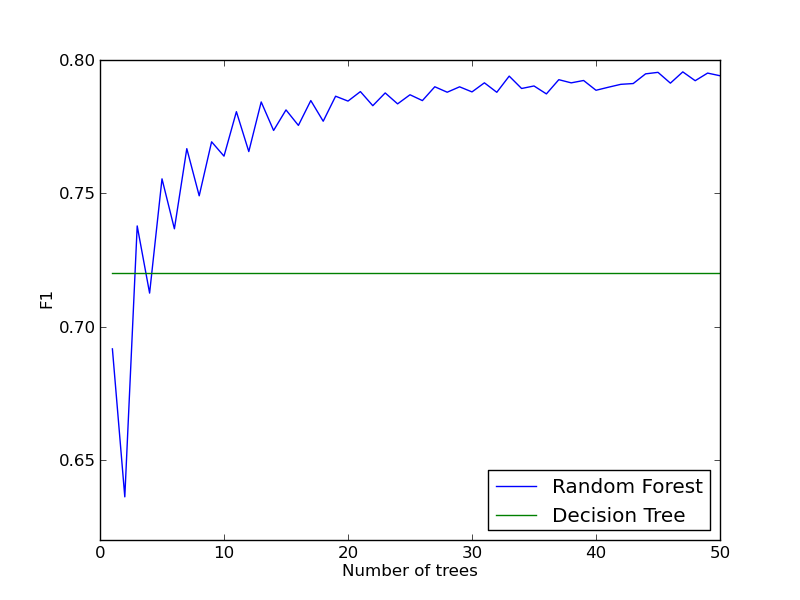
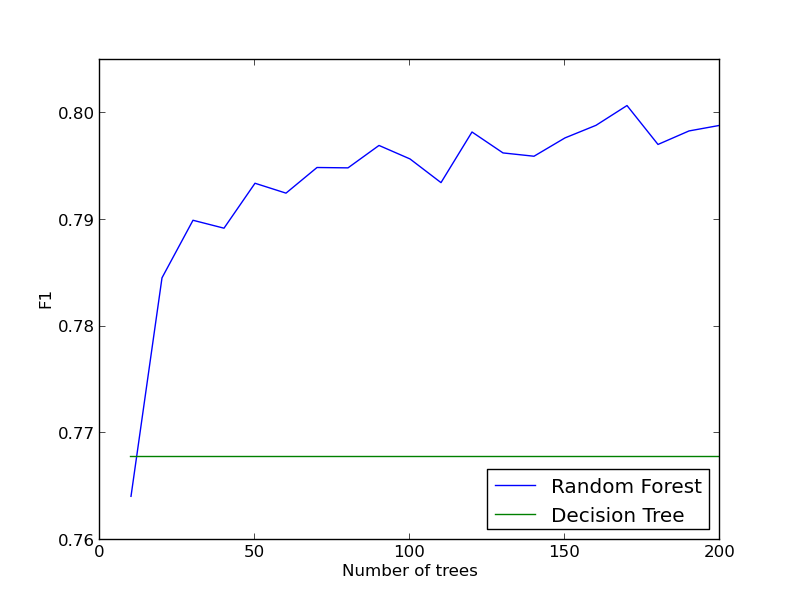
50

diff --git a/proj1/dt.py b/proj1/dt.py
@@ -39,12 +39,12 @@ def main():
         from sklearn.externals.six import StringIO
         from sklearn import tree
         import pydot
-        clf = DecisionTreeClassifier(criterion='entropy')
+        clf = DecisionTreeClassifier(criterion='entropy', max_leaf_nodes=41)
         clf.fit(x, y)
         print clf.tree_.max_depth
         print clf.tree_.node_count
         dot_data = StringIO()
-        tree.export_graphviz(clf, max_depth=3, out_file=dot_data)
+        tree.export_graphviz(clf, out_file=dot_data)
         graph = pydot.graph_from_dot_data(dot_data.getvalue()) 
         graph.write_pdf("figs/test.pdf") 
 #         with open('test.dot', 'w') as f:

diff --git a/proj1/plot_rf.py b/proj1/plot_rf.py
@@ -2,17 +2,17 @@ import numpy as np
 import matplotlib.pyplot as plt
 
 data = []
-with open('../data/rf_trees') as f:
+with open('res/rf_trees') as f:
     for line in f:
         l = map(lambda x: float(x), line.strip().split(','))
         data.append(l)
 data = np.array(data)
-baseline = [0.9250, 0.7212, 0.7187, 0.7200]
+baseline = [0.9378, 0.7732, 0.7624, 0.7678]
 labels = ["Accuracy", "Precision", "Recall", "F1"]
 
 for i in xrange(4):
     d = data[:, i]
-    idx = np.arange(1, len(d) + 1)
+    idx = np.arange(1, len(d) + 1) * 10
     ref = [baseline[i] for j in xrange(len(d))]
     plt.clf()
     plt.plot(idx, d, label='Random Forest')

diff --git a/proj1/rf.py b/proj1/rf.py
@@ -38,7 +38,7 @@ def main():
             print "accuracy: {}".format(a)
     if relation:
         res = []
-        for k in xrange(1, 20 + 1):
+        for k in xrange(1, 50 + 1):
             print 'num of trees:{}'.format(k * 10)
             a, p, r, f = classify(x, y, kf, criterion='entropy', n_estimator=k * 10)
             print a, p, r, f
